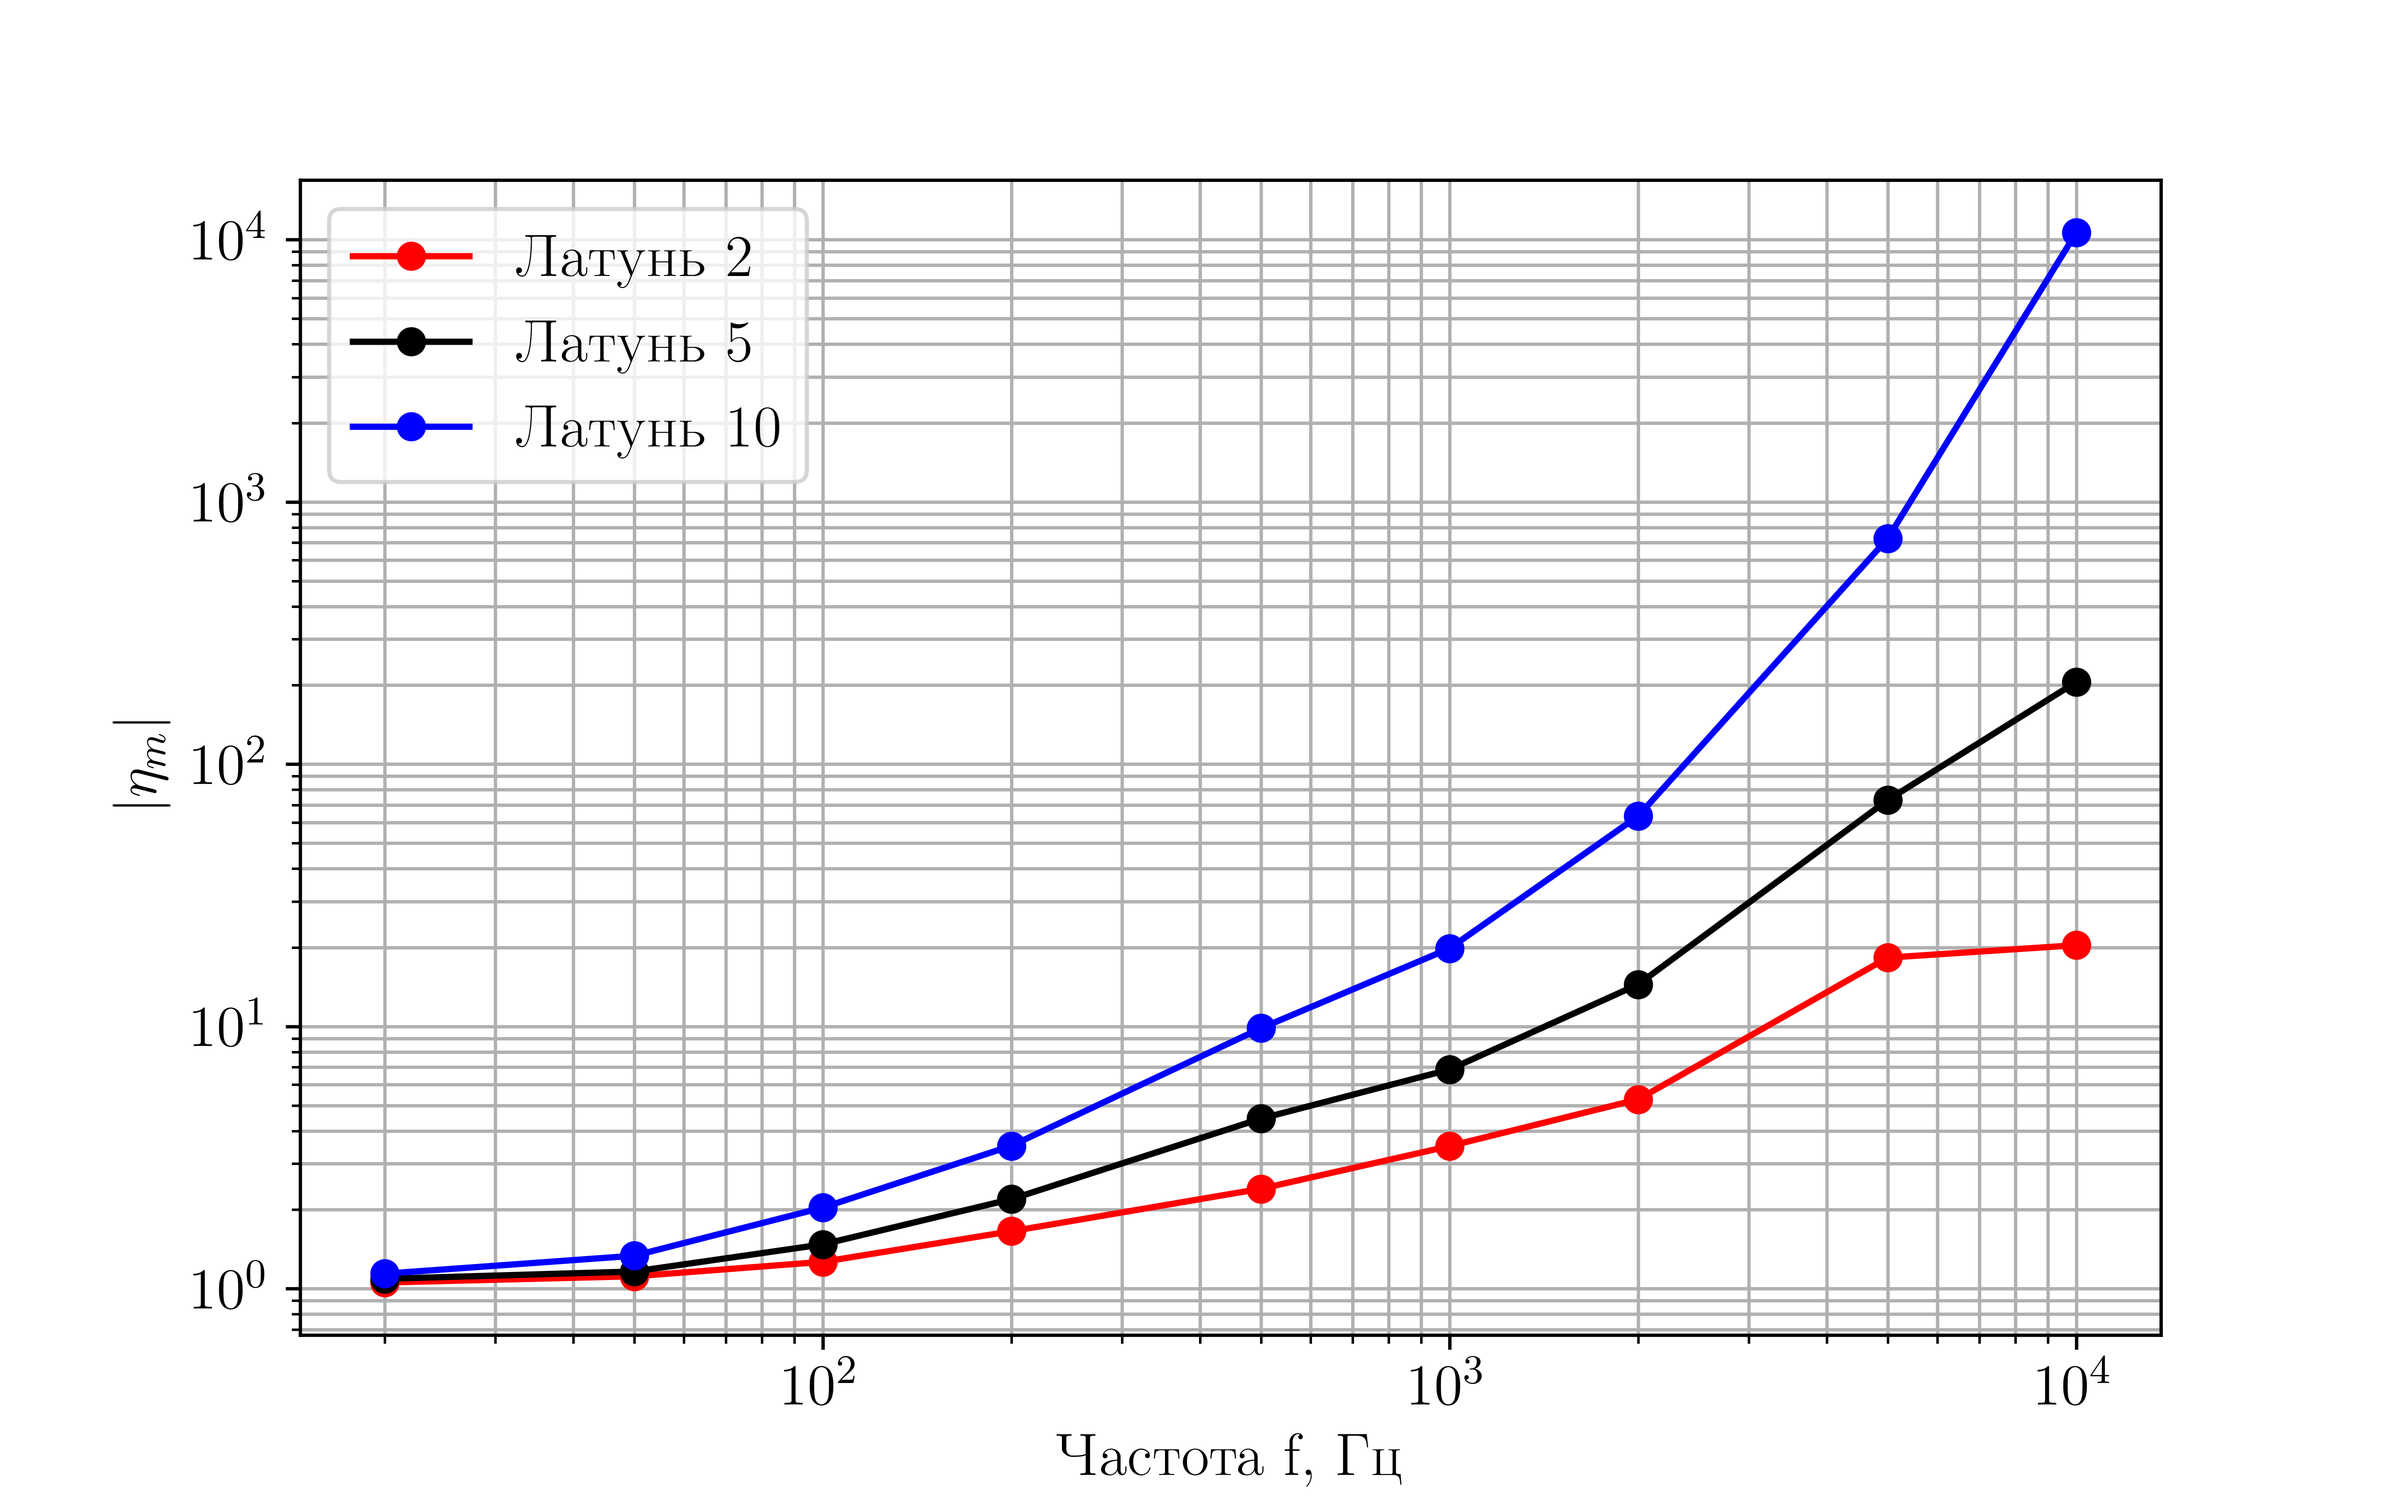
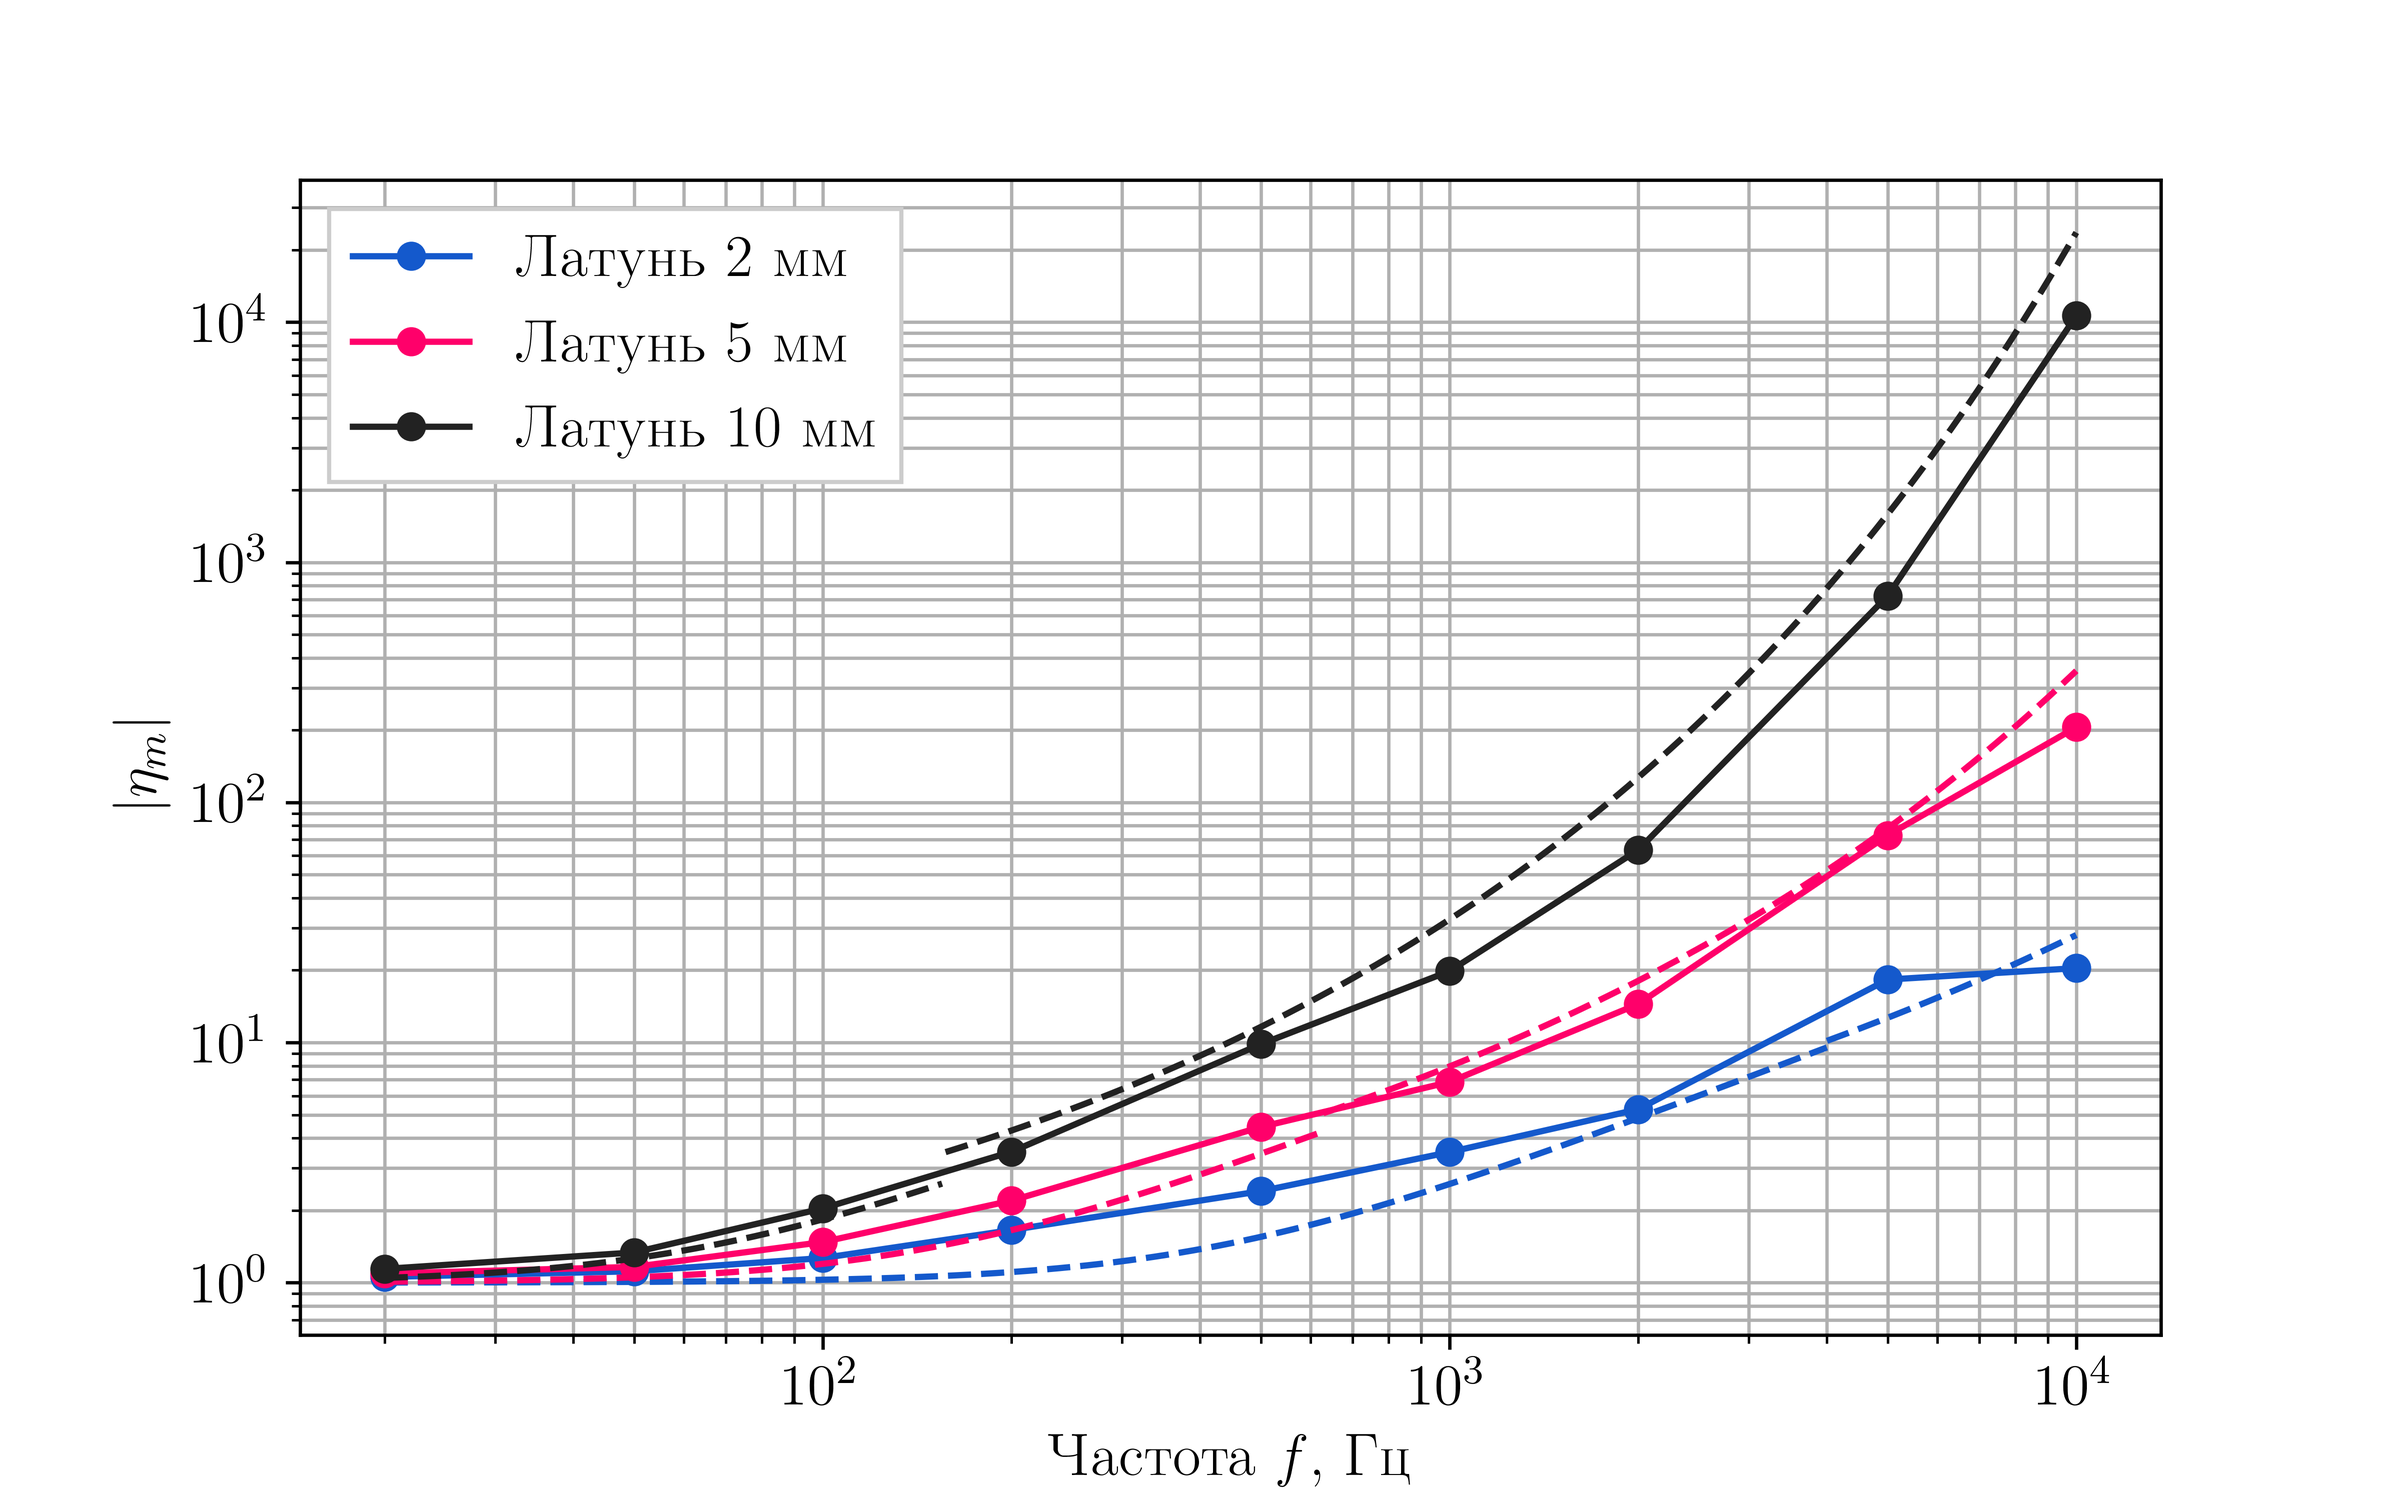
2 графика

Changed region(s): [[0.0625, 0.124, 0.9062, 0.899], [0.0938, 0.155, 0.1875, 0.248], [0.4375, 0.961, 0.5938, 0.992]]

diff --git a/data/script.py b/data/script.py
@@ -5,17 +5,16 @@ from matplotlib import rc
 # import matplotlib
 # from matplotlib.backends.backend_pdf import PdfPages
 
-plt.rc('text', usetex = True)
-plt.rc('font', size=14, family = 'serif')
+plt.rc('text', usetex=True)
+plt.rc('font', size=14, family='serif')
 # plt.rc('legend', fontsize=13)
 plt.rc('text.latex', preamble=r'\usepackage[russian]{babel}')
 # plt.rc('text.latex',unicode=True)
 
 
-
 def removeEmptyStrings(lst):
     new_lst = []
-    for i in range(0,len(lst)):
+    for i in range(0, len(lst)):
         if lst[i]:
             new_lst.append(lst[i])
         else:
@@ -27,24 +26,64 @@ loc = 'data/Ekranirovanie2.xlsx'
 wb = xlrd.open_workbook(loc)
 sheet = wb.sheet_by_index(0)
 freq = sheet.col_values(0)[3:]
-colors = ['ro-','ko-','bo-']
-fig = plt.figure(figsize=(8,5))
+colors = ['#1459CC', '#FF006A', '#222222']
+fig = plt.figure(figsize=(8, 5))
 ax = fig.add_subplot(111)
-for i in range(1,4):
+freq_ext = np.arange(20, 10000, 1)
+
+c = 299792458  # m/s
+sigma_lat = 1.5*10**(17)
+sigma_st = 0.7*10**(17)
+mu_lat = 1
+mu_st = 200
+d_lat = [0.002, 0.005, 0.01]  # lat
+cutoff = [4000,628,156]
+R_IN = 0.025
+# for i in range(1, 4):
+#     name = sheet.col_values(i*3)[0]
+#     Ve = removeEmptyStrings(sheet.col_values(i*3)[3:])
+#     Ue = removeEmptyStrings(sheet.col_values(i*3+1)[3:])
+#     eta = removeEmptyStrings(sheet.col_values(i*3+2)[3:])
+
+#     skin = c/np.sqrt(4*np.pi**2*sigma_lat*mu_lat*freq_ext)
+#     radius = R_IN + d_lat[i-1]
+#     mda = mu_lat*skin/radius
+#     amd = 1/mda
+#     eta_t_high = 1/6*np.exp(d_lat[i-1]/skin)*np.sqrt((mda + amd + 3)**2 + (amd - mda)**2)
+#     eta_t_low = np.sqrt( (1+2/3*d_lat[i-1]/radius*(mu_lat-1)**2/mu_lat)**2 + (2/3*radius*d_lat[i-1]/mu_lat/skin**2)**2 )
+#     print('Строим ', name, '...')
+#     ax.plot(freq, eta,'o-',color = colors[i-1], label=name+' мм')
+#     ax.plot(freq_ext[freq_ext>cutoff[i-1]], eta_t_high[freq_ext>cutoff[i-1]],'--',color = colors[i-1])
+#     ax.plot(freq_ext[freq_ext<cutoff[i-1]], eta_t_low[freq_ext<cutoff[i-1]],'--',color = colors[i-1])
+
+# steel
+cutoff = [16,2.56,0.65]
+freq_ext = np.arange(20, 5000, 1)
+for i in range(4, 7):
     name = sheet.col_values(i*3)[0]
     Ve = removeEmptyStrings(sheet.col_values(i*3)[3:])
     Ue = removeEmptyStrings(sheet.col_values(i*3+1)[3:])
     eta = removeEmptyStrings(sheet.col_values(i*3+2)[3:])
-    print(name,eta)
-    ax.plot(freq,eta,colors[i-1],label = name)
+
+    skin = c/np.sqrt(4*np.pi**2*sigma_st*mu_st*freq_ext)
+    radius = R_IN + d_lat[i-4]
+    mda = mu_st*skin/radius
+    amd = 1/mda
+    eta_t_high = 1/6*np.exp(d_lat[i-4]/skin)*np.sqrt((mda + amd + 3)**2 + (amd - mda)**2)
+    eta_t_low = np.sqrt( (1+2/3*d_lat[i-4]/radius*(mu_st-1)**2/mu_st)**2 + (2/3*radius*d_lat[i-4]/mu_st/skin**2)**2 )
+    print('Строим ', name, '...')
+    ax.plot(freq, eta,'o-',color = colors[i-4], label=name+' мм')
+    ax.plot(freq_ext[freq_ext>cutoff[i-4]], eta_t_high[freq_ext>cutoff[i-4]],'--',color = colors[i-4])
+    ax.plot(freq_ext[freq_ext<cutoff[i-4]], eta_t_low[freq_ext<cutoff[i-4]],'--',color = colors[i-4])
+
     # print(sheet.col_values(i*3))
 
 
-ax.set_xlabel(r'Частота f, Гц')
+ax.set_xlabel(r'Частота $f$, Гц')
 ax.set_ylabel('$|\eta_m|$')
 ax.grid(which='both')
 ax.set_yscale('log')
 ax.set_xscale('log')
-plt.legend()
-plt.savefig('imgs/graphs/lat.png',dpi=600)
+plt.legend(fancybox = False,shadow = False, framealpha = 1)
+# plt.savefig('imgs/graphs/steel.png',dpi=600)
 plt.show()

diff --git a/data/skin.py b/data/skin.py
@@ -1,0 +1,69 @@
+import numpy as np
+import xlrd
+import matplotlib.pyplot as plt
+from matplotlib import rc
+# import matplotlib
+# from matplotlib.backends.backend_pdf import PdfPages
+
+plt.rc('text', usetex=True)
+plt.rc('font', size=14, family='serif')
+# plt.rc('legend', fontsize=13)
+plt.rc('text.latex', preamble=r'\usepackage[russian]{babel}')
+# plt.rc('text.latex',unicode=True)
+
+
+def removeEmptyStrings(lst):
+    new_lst = []
+    for i in range(0, len(lst)):
+        if lst[i]:
+            new_lst.append(lst[i])
+        else:
+            new_lst.append(float('nan'))
+    return new_lst
+
+
+loc = 'data/Ekranirovanie2.xlsx'
+wb = xlrd.open_workbook(loc)
+sheet = wb.sheet_by_index(0)
+freq = np.array(sheet.col_values(0)[3:])
+# colors = ['ro-','ko-','bo-']
+fig = plt.figure(figsize=(8, 5))
+ax = fig.add_subplot(111)
+freq_ext = np.arange(0, 10000, 0.1)
+
+c = 299792458  # m/s
+# sigma = 1.5*10**(17)
+# mu = 1
+sigma = 0.7*10**(17)
+mu = 500
+omega = 2*np.pi*freq_ext
+
+skin = c/np.sqrt(2*np.pi*sigma*mu*omega)
+
+ax.plot(freq_ext,skin*100)
+
+ax.plot(freq_ext,[0.2]*len(freq_ext),label = '2 мм')
+ax.plot(freq_ext,[0.5]*len(freq_ext),label = '5 мм')
+ax.plot(freq_ext,[1]*len(freq_ext),label = '10 мм')
+
+# for i in range(1,4):
+#     name = sheet.col_values(i*3)[0]
+#     Ve = removeEmptyStrings(sheet.col_values(i*3)[3:])
+#     Ue = removeEmptyStrings(sheet.col_values(i*3+1)[3:])
+#     eta = removeEmptyStrings(sheet.col_values(i*3+2)[3:])
+
+
+#     print('Строим ',name,'...')
+#     ax.plot(freq,eta,colors[i-1],label = name)
+
+# print(sheet.col_values(i*3))
+
+
+ax.set_xlabel(r'Частота f, Гц')
+ax.set_ylabel('$\delta$, см')
+ax.grid(which='both')
+# ax.set_yscale('log')
+ax.set_xscale('log')
+plt.legend()
+# plt.savefig('imgs/graphs/lat.png',dpi=600)
+plt.show()
